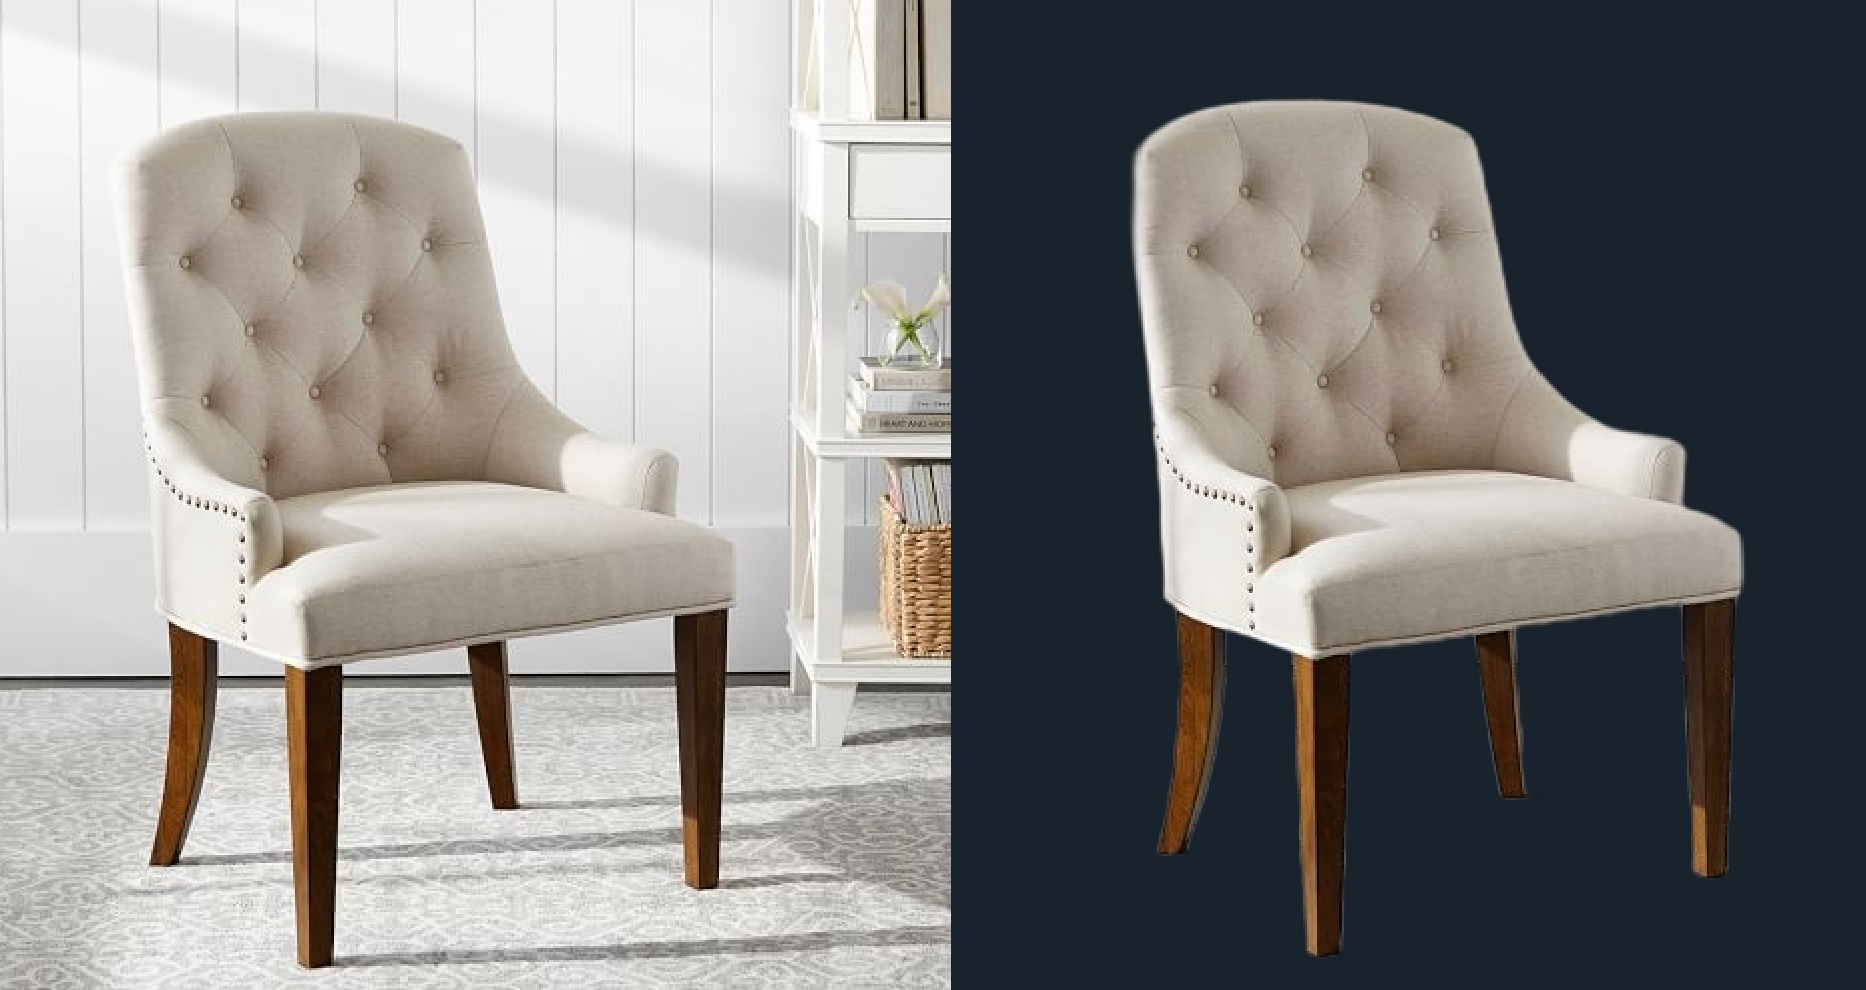
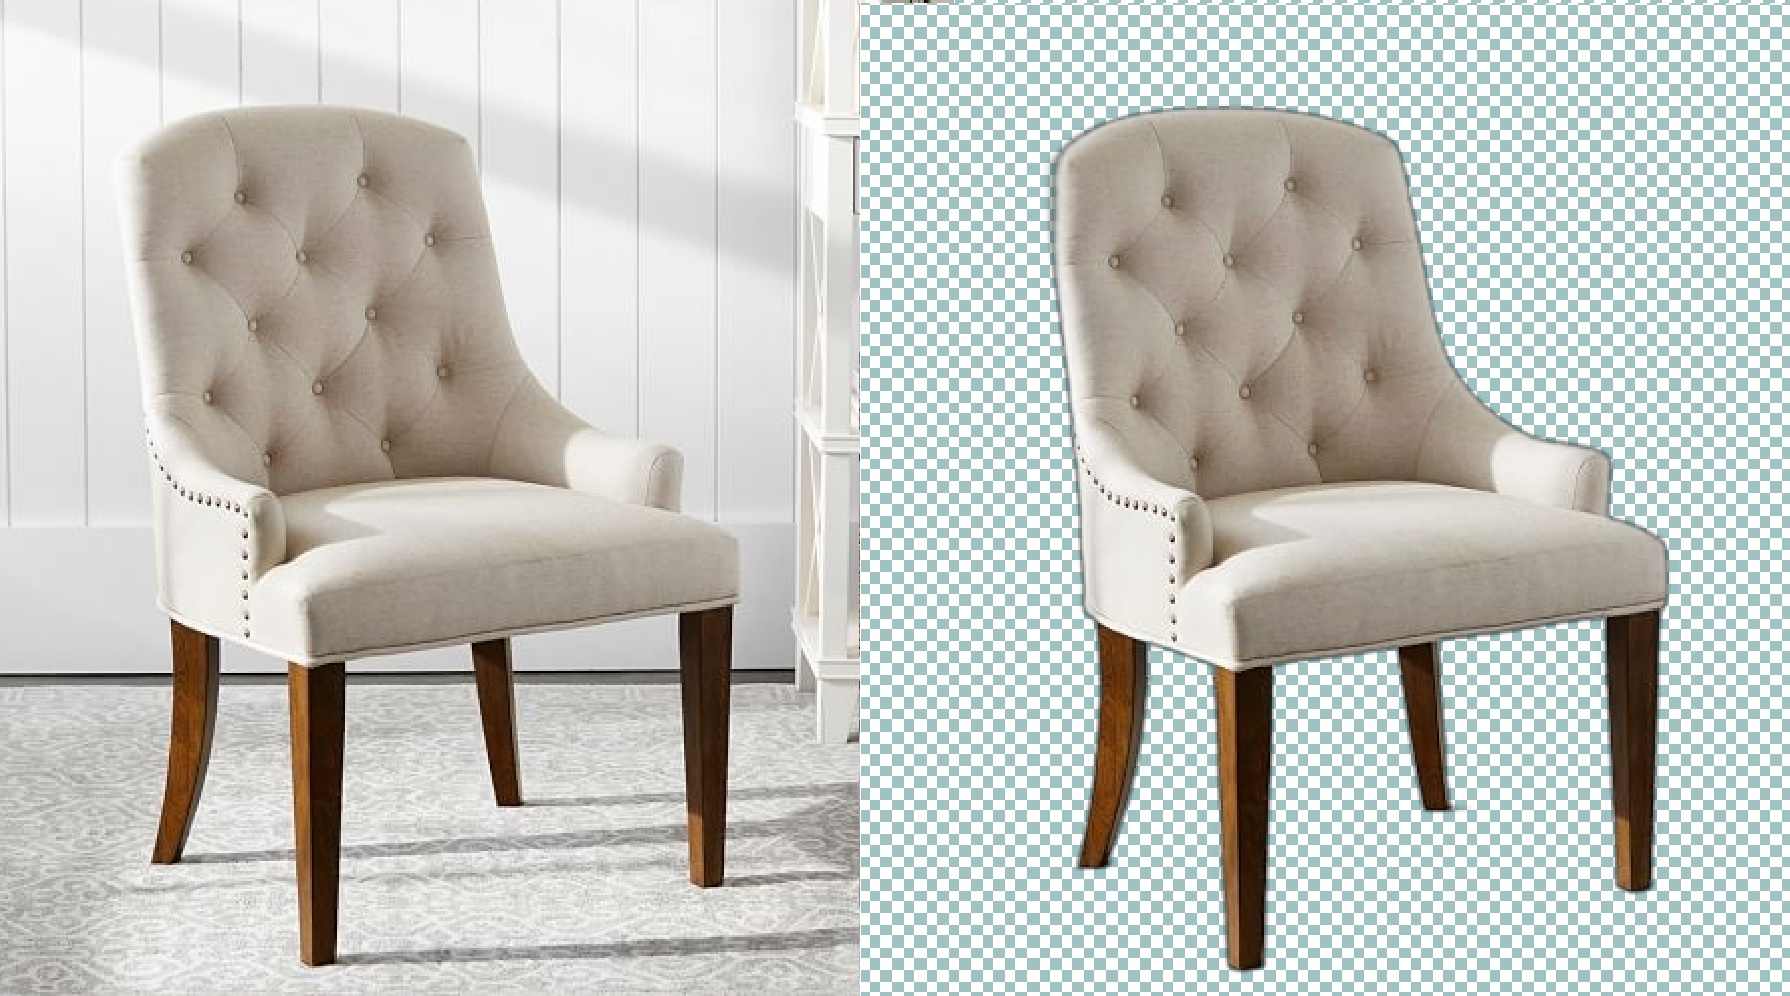
Added checkerboard with better performance

diff --git a/QImageViewer.py b/QImageViewer.py
@@ -210,6 +210,10 @@ class QtImageViewer(QGraphicsView):
         }
         self.currentLayer = 0
 
+        self.checkerBoard = None
+        self.checkerBoardWidth = 0
+        self.checkerBoardHeight = 0
+
     def sizeHint(self):
         return QSize(900, 600)
 
@@ -409,31 +413,45 @@ class QtImageViewer(QGraphicsView):
         # Grid for transparent images
         #########################################################################################
 
-        def checkerboard(size):
+        # https://stackoverflow.com/a/67073067
+        def checkerboard(w, h):
+            from itertools import chain
+            from math import ceil
             from PIL import Image
 
-            img = Image.new("RGBA", (size,size), "white") # create a new 15x15 image
-            pixels = img.load() # create the pixel map
+            m, n = (int(w / 100), int(h / 100))             # Checker dimension (x, y)
 
-            black_2 = []
-            for i in range(img.size[0]):
-                if i % 2 == 0:
-                    black_2.append(i)
+            if m < 100:
+                m *= 100/m
+                m = int(m)
+                n = int(m * h / w)
+            elif n < 100:
+                n *= 100/n 
+                n = int(n)
+                m = int(n * w / h)
 
-            black_1 = [i-1 for i in black_2 if i > 0]
-            if img.size[0] % 2 == 0: # 'that' if statement
-                black_1.append(img.size[0]-1)
+            c1 = (225, 255, 255, 0)                         # First color
+            c2 = (10, 100, 100, 100)                        # Second color
+            mode = 'L' if isinstance(c1, int) else 'RGBA'   # Mode from first color
 
+            # Generate pixel-wise checker, even x dimension
+            if m % 2 == 0:
+                pixels = [[c1, c2] for i in range(int(m/2))] + \
+                         [[c2, c1] for i in range(int(m/2))]
+                pixels = [list(chain(*pixels)) for i in range(ceil(n/2))]
 
-            for i in black_1:
-                for j in range(0, size, 2):
-                    pixels[i,j] = (10, 100, 100, 100)
+            # Generate pixel-wise checker, odd x dimension
+            else:
+                pixels = [[c1, c2] for i in range(ceil(m*n/2))]
 
-            for k in black_2:
-                for l in range(1, size, 2):
-                    pixels[k,l] = (10, 100, 100, 100)
+            # Generate final Pillow-compatible pixel values
+            pixels = list(chain(*pixels))[:(m*n)]
 
-            return img
+            # Generate Pillow image from pixel values, resize to final image size, and save
+            checker = Image.new(mode, (m, n))
+            checker.putdata(pixels)
+            checker = checker.resize((w, h), Image.NEAREST)
+            return checker
 
         original = pixmap.copy()
         painter = QPainter(pixmap)
@@ -441,9 +459,15 @@ class QtImageViewer(QGraphicsView):
         width = pixmap.width()
         height = pixmap.height()
 
-        checkerboard_image = checkerboard(max(width, height))
-        checkerboard_pixmap = self.ImageToQPixmap(checkerboard_image)
-        painter.drawPixmap(QPoint(), checkerboard_pixmap)
+        if not self.checkerBoard:
+            self.checkerBoard = checkerboard(width, height)
+            self.checkerBoard = self.ImageToQPixmap(self.checkerBoard)
+        else:
+            if self.checkerBoardHeight != height or self.checkerBoardWidth != width:
+                self.checkerBoard = checkerboard(width, height)
+                self.checkerBoard = self.ImageToQPixmap(self.checkerBoard)
+
+        painter.drawPixmap(QPoint(), self.checkerBoard)
         painter.drawPixmap(QPoint(), original)
         painter.end()
 

diff --git a/QToolHumanSegmentation.py b/QToolHumanSegmentation.py
@@ -5,7 +5,7 @@ class QToolHumanSegmentation(QTool):
     def __init__(self, parent=None, toolInput=None, onCompleted=None):
         super(QToolHumanSegmentation, self).__init__(parent, "Human Segmentation", 
                                              "Extract humans from images\nhttps://github.com/nadermx/backgroundremover", 
-                                             "images/HumanSegmentation.jpg", 
+                                             "images/HumanSegmentation_02.jpg", 
                                              self.onRun, toolInput, onCompleted)
 
         self.parent = parent
